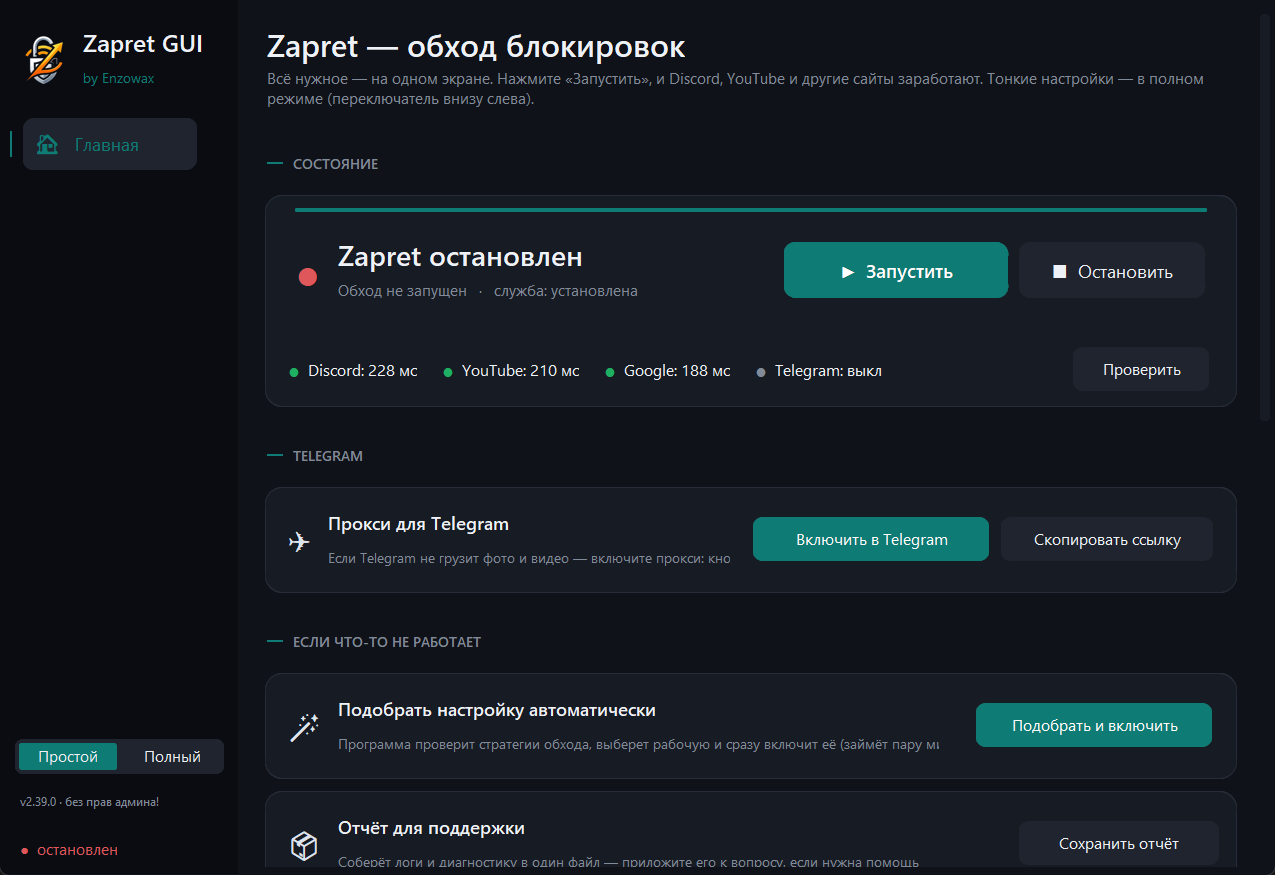
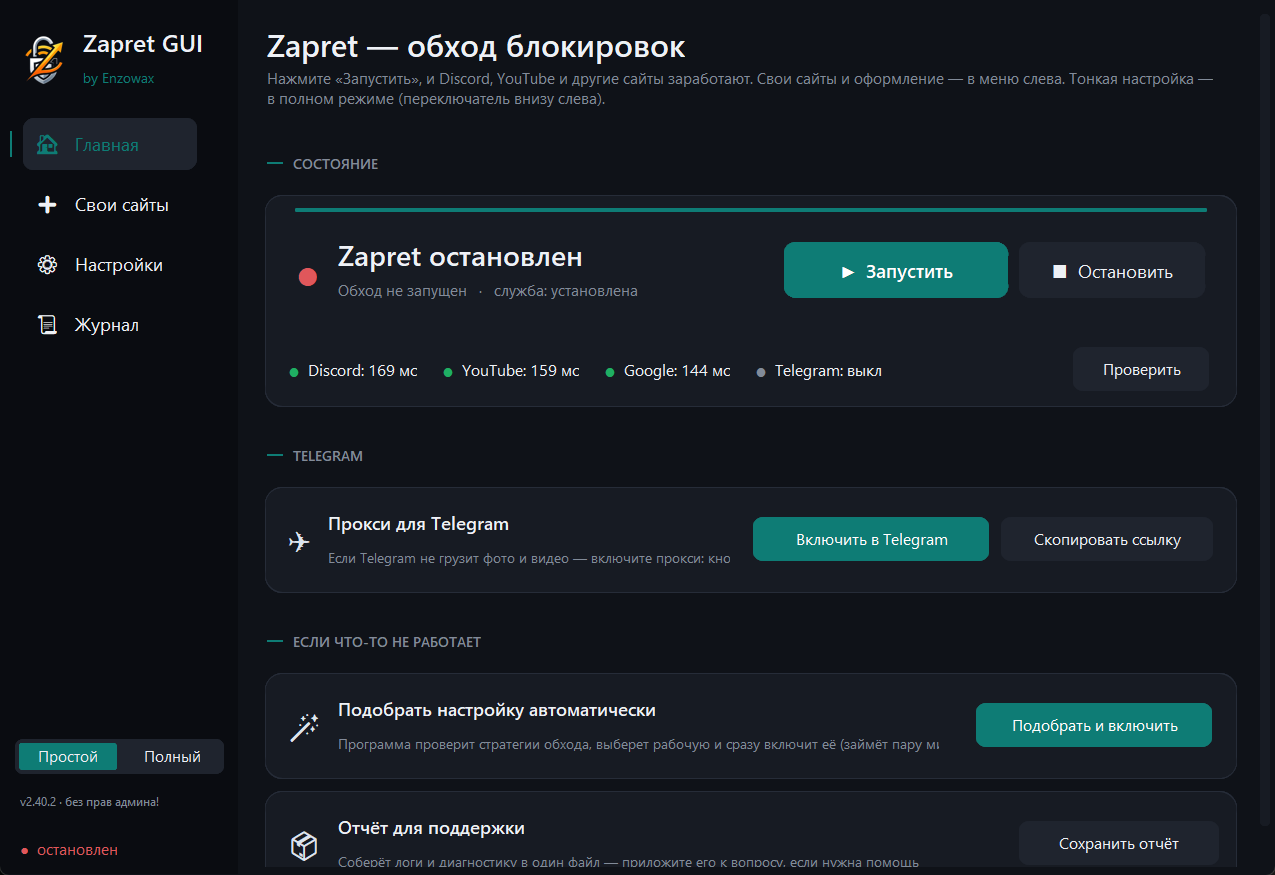
Финал: README и скриншот под многостраничный простой режим (v2.40.3)
- README: раздел «Два режима» переписан под простой режим из 4 пунктов меню
  (Главная · Свои сайты · Настройки · Журнал) с темой и выбором акцента в
  настройках; добавлены пункты FAQ про автозапуск (самопочинка пути) и про
  копирование/вставку на русской раскладке;
- обновлён hero-скриншот простого режима под текущий лаконичный вид Главной;
- подзаголовок Главной больше не обещает «всё на одном экране» (теперь пункты
  разнесены по меню).

Тесты 23/23, ruff чистый.

diff --git a/zapret_core.py b/zapret_core.py
@@ -99,7 +99,7 @@ TELEGRAM_IP_RANGES = [
 ]
 
 # --- версия приложения и источник обновлений (GitHub) ---
-APP_VERSION = "2.40.2"
+APP_VERSION = "2.40.3"
 GITHUB_OWNER = "Enzowax"
 GITHUB_REPO = "Zapret-GUI"
 GITHUB_API_LATEST = (f"https://api.github.com/repos/{GITHUB_OWNER}/"